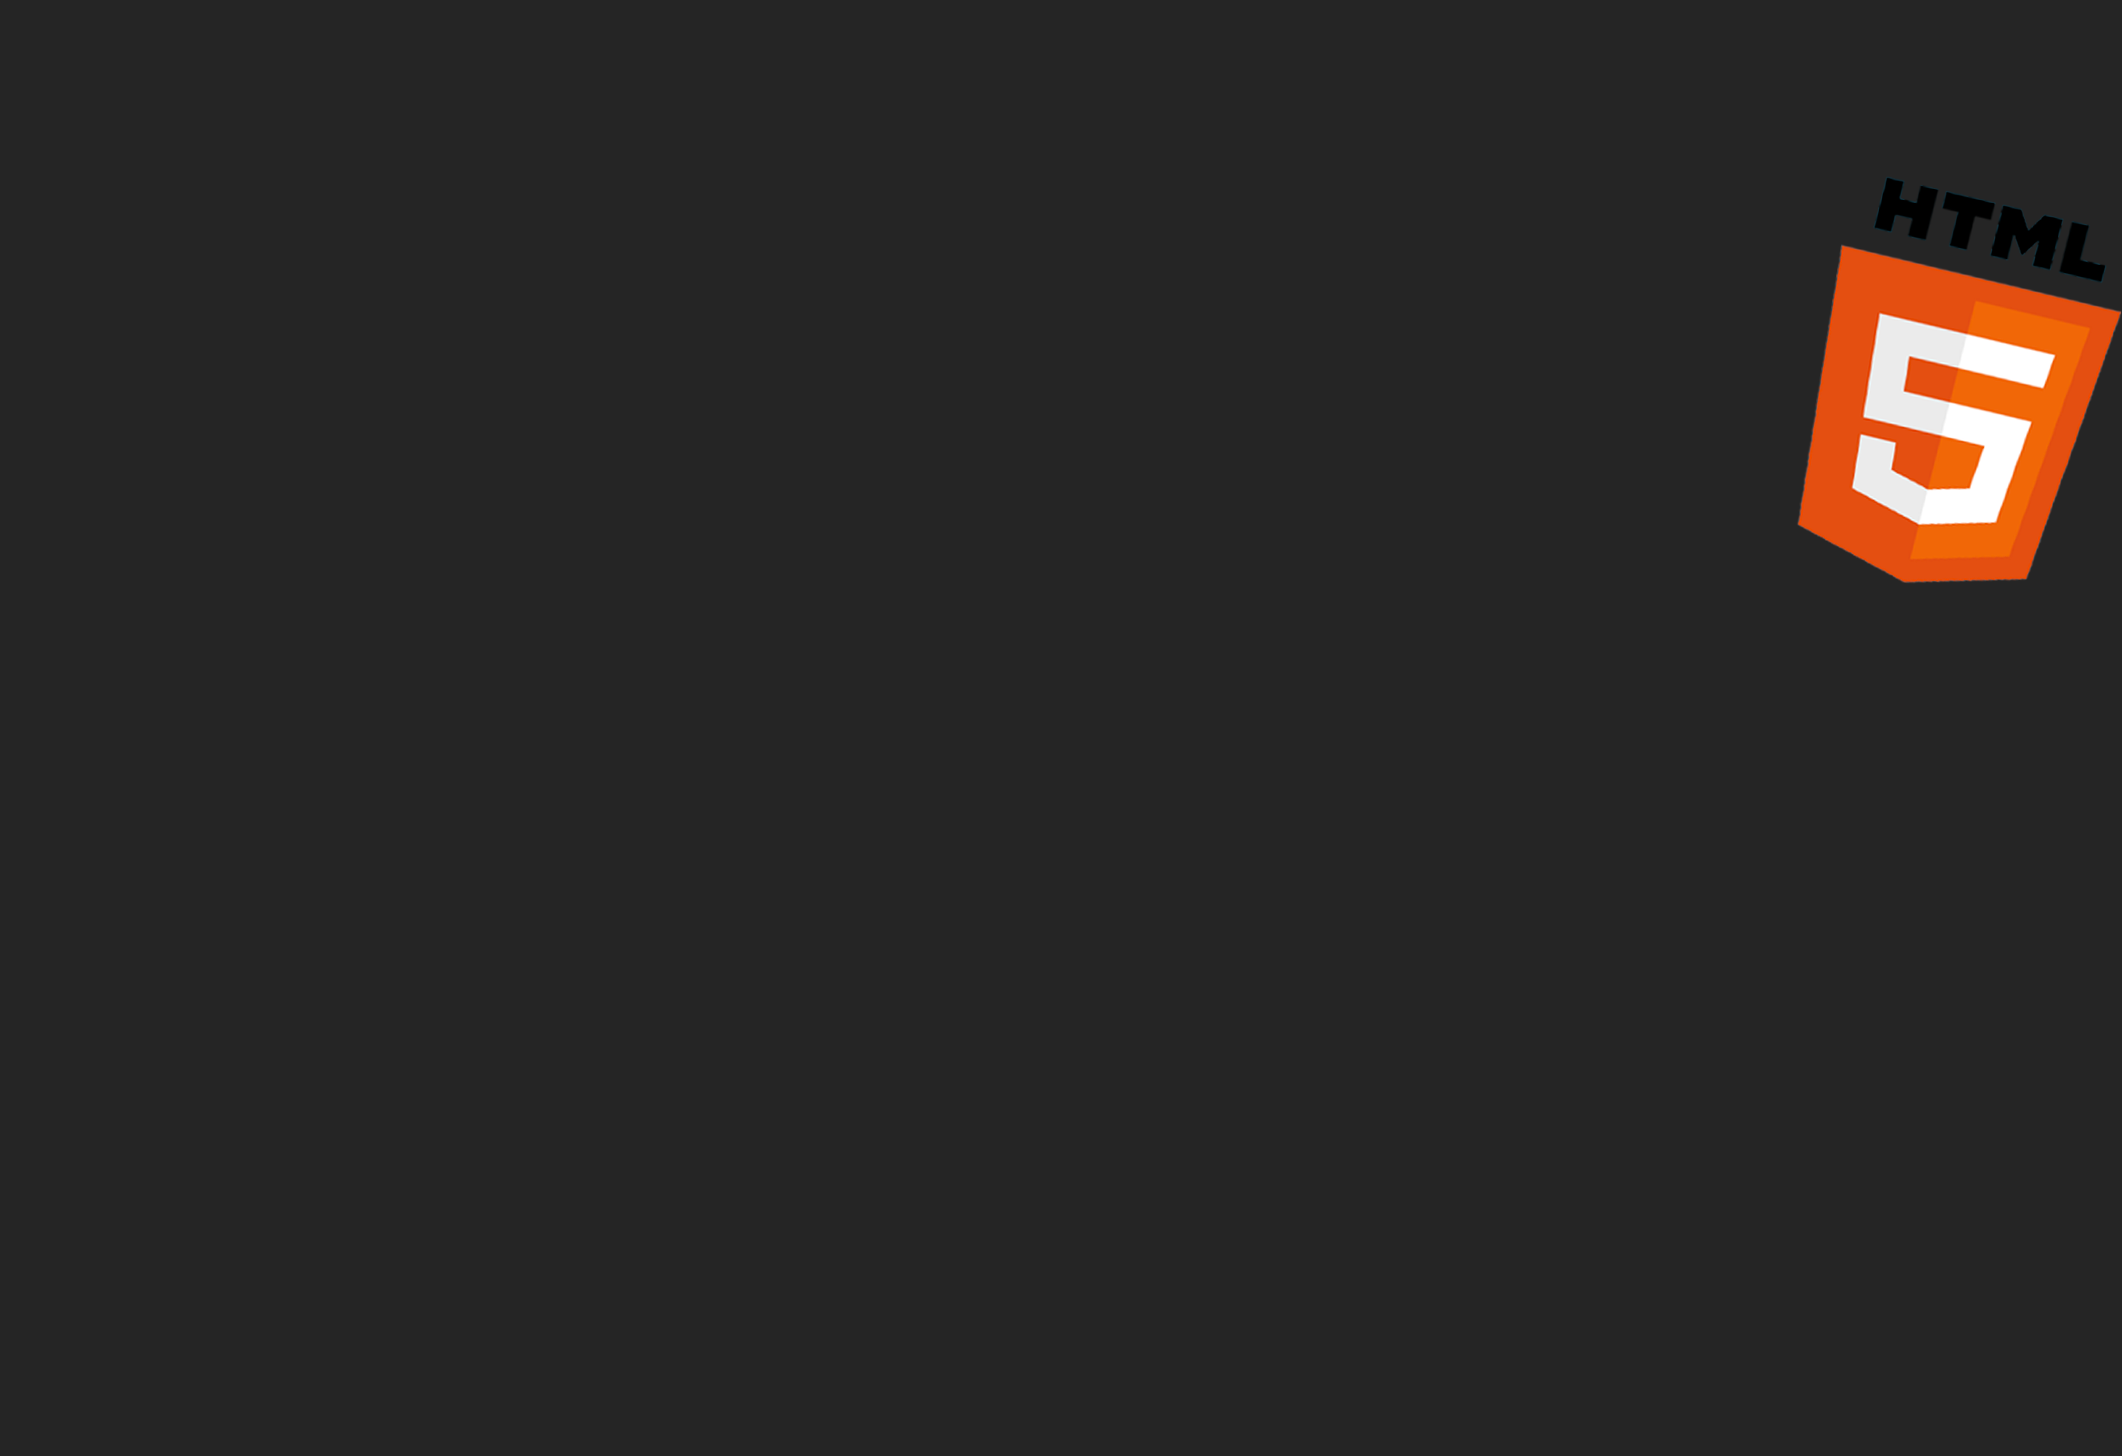
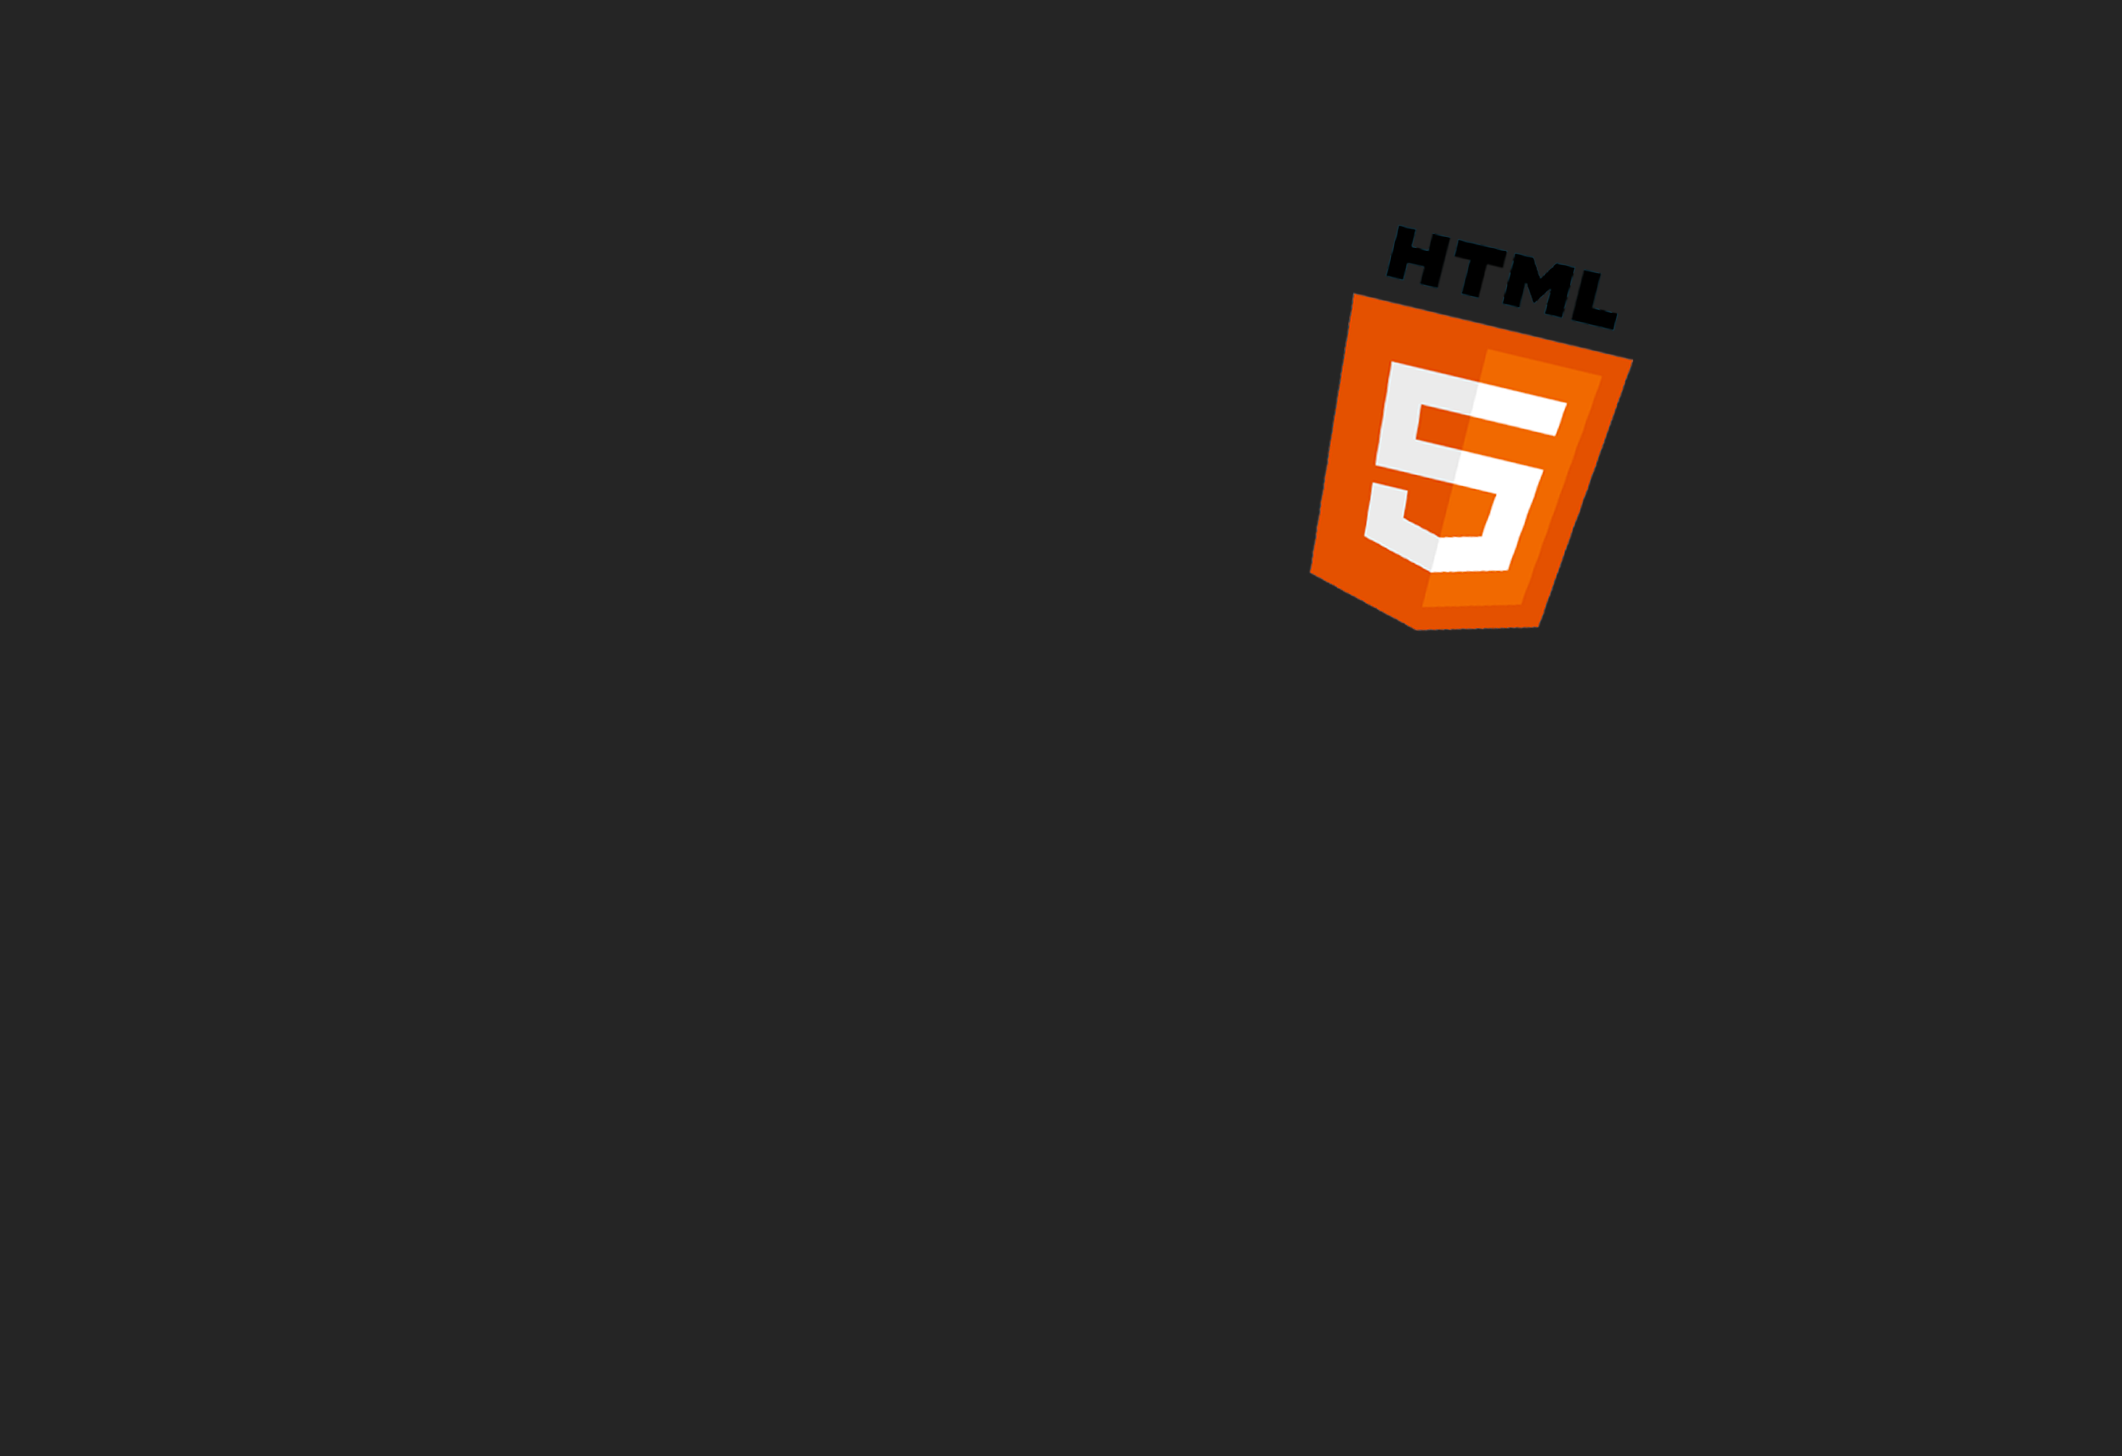
promos

Changed region(s): [[0.591, 0.1545, 0.7776, 0.4327], [0.8398, 0.1236, 1.0, 0.4018]]

diff --git a/index.html b/index.html
@@ -14,11 +14,10 @@ keywords: formations java jee, formations hadoop, formations java, formations it
             <div class="clearfix"></div>
             <ul class="social-bookmarks">   
                 <li class="twitter"><a href="https://twitter.com/XebiaTraining">twitter</a></li>
-                <li class="linkedin"><a href="http://www.linkedin.com/company/xebia-training">Linkedin</a></li>  
-                <li class="googleplus"><a href="https://twitter.com/XebiaTraining">Google +</a></li>
+                <li class="linkedin"><a href="http://www.linkedin.com/company/xebia-training">Linkedin</a></li>
+                <li class="viadeo"><a href="">Viadeo</a></li>  
                 <li class="vimeo"><a href="http://vimeo.com/xebia">Vimeo</a></li>   
-                <li class="rss"><a href="feed:http://blog.xebia.fr/feed/?dualfeed=2">RSS</a></li>
-                <li class="viadeo"><a href="">Viadeo</a></li> 
+                <li class="rss"><a href="feed:http://blog.xebia.fr/feed/?dualfeed=2">RSS</a></li> 
         </ul>
          </div>
          <!-- .span12 -->
@@ -107,7 +106,7 @@ new TWTR.Widget({
    </div>
    <!-- .container -->
 </section>
-<section id="bg-typo-next-training">
+<section id="bg-typo-next-training" class="stretch bg-fixed">
    <div class="container">
       <div class="row">
          <div class="span6 offset6 boxed color-typo-middle">
@@ -187,7 +186,7 @@ new TWTR.Widget({
 
     <td>7-8 février</td>
 
-    <td>1 400€ au lieu de 1 500€</td>
+    <td>1 500€</td>
 
     <td><a href=
     "http://training.xebia.fr/formation-scrummaster-certifiante-francais.html">

diff --git a/style.css b/style.css
@@ -530,7 +530,7 @@ section#title h1 {
   margin: 0;
 }
 .above-title-2 { 
-  height: 8px; /* Height of the navbar */
+  height: 30px; /* Height of the navbar */
 }
 
 .title-spacer {
@@ -560,7 +560,7 @@ section#title-csm-jeff h1 span {
   transition:opacity .7s ease-in-out;
 }
 #title-home  {
-    height: 500px;
+    height: 450px;
 }
 #title-post  {
     height: auto;
@@ -742,9 +742,11 @@ section#title-csm-jeff h1 span {
   -ms-transition:opacity .7s ease-in-out;
   transition:opacity .7s ease-in-out;
 }
+#title-tech-java {
+      height: 350px;
+}
 #title-tech-java h1 span {
-  display: inline-block;
-  padding: 28px; padding: 2.4rem;
+  display: inline-block; padding: 2.4rem;
   background: #202020;
   color: #fff;
   width: 450px;
@@ -754,6 +756,9 @@ section#title-csm-jeff h1 span {
   -webkit-transition:opacity .7s ease-in-out;
   -ms-transition:opacity .7s ease-in-out;
   transition:opacity .7s ease-in-out;
+}
+#title-mobilite {
+height: 310px;
 }
 #title-mobilite h1 span {
   display: inline-block;
@@ -767,6 +772,9 @@ section#title-csm-jeff h1 span {
   -webkit-transition:opacity .7s ease-in-out;
   -ms-transition:opacity .7s ease-in-out;
   transition:opacity .7s ease-in-out;
+}
+#title-web {
+ height: 310px;
 }
 #title-web h1 span {
   display: inline-block;

diff --git a/_layouts/main.html b/_layouts/main.html
@@ -294,11 +294,10 @@
         <div class="span4">
             <ul class="social-bookmarks">   
                 <li class="twitter"><a href="https://twitter.com/XebiaTraining">twitter</a></li>
-                <li class="linkedin"><a href="http://www.linkedin.com/company/xebia-training">Linkedin</a></li>  
-                <li class="googleplus"><a href="https://twitter.com/XebiaTraining">Google +</a></li>
+                <li class="linkedin"><a href="http://www.linkedin.com/company/xebia-training">Linkedin</a></li>
+                <li class="viadeo"><a href="">Viadeo</a></li>  
                 <li class="vimeo"><a href="http://vimeo.com/xebia">Vimeo</a></li>   
-                <li class="rss"><a href="feed:http://blog.xebia.fr/feed/?dualfeed=2">RSS</a></li>
-                <li class="viadeo"><a href="">Viadeo</a></li> 
+                <li class="rss"><a href="feed:http://blog.xebia.fr/feed/?dualfeed=2">RSS</a></li> 
         </ul>
         </div><!-- .span4 -->
       </div><!-- .row -->

diff --git a/formations-java-jee/formations-java-essentials.html b/formations-java-jee/formations-java-essentials.html
@@ -11,6 +11,13 @@ keywords: formations java, formations java jee, formation java essentials
          <div class="span12 title-spacer">
             <div class="clearfix"></div>
             <h1><span>Formations Java Essentials animées par José Paumard</span></h1>
+            <ul class="social-bookmarks">   
+                <li class="twitter"><a href="https://twitter.com/XebiaTraining">twitter</a></li>
+                <li class="linkedin"><a href="http://www.linkedin.com/company/xebia-training">Linkedin</a></li>
+                <li class="viadeo"><a href="">Viadeo</a></li>  
+                <li class="vimeo"><a href="http://vimeo.com/xebia">Vimeo</a></li>   
+                <li class="rss"><a href="feed:http://blog.xebia.fr/feed/?dualfeed=2">RSS</a></li> 
+        </ul>
             <div class="clearfix"></div>
          </div>
          <!-- .span12 -->

diff --git a/formations-java-jee/formations-java.html b/formations-java-jee/formations-java.html
@@ -11,6 +11,13 @@ keywords: formations java, formations java jee, formations java ee
          <div class="span12 title-spacer">
             <div class="clearfix"></div>
             <h1><span>Formations Java JEE</span></h1>
+             <ul class="social-bookmarks">   
+                <li class="twitter"><a href="https://twitter.com/XebiaTraining">twitter</a></li>
+                <li class="linkedin"><a href="http://www.linkedin.com/company/xebia-training">Linkedin</a></li>
+                <li class="viadeo"><a href="">Viadeo</a></li>  
+                <li class="vimeo"><a href="http://vimeo.com/xebia">Vimeo</a></li>   
+                <li class="rss"><a href="feed:http://blog.xebia.fr/feed/?dualfeed=2">RSS</a></li> 
+        </ul>
             <div class="clearfix"></div>
          </div>
          <!-- .span12 -->

diff --git a/formations-mobiles/formations-mobilite.html b/formations-mobiles/formations-mobilite.html
@@ -9,6 +9,13 @@ title: Formations mobilité
          <div class="span12 title-spacer">
             <div class="clearfix"></div>
             <h1><span>Formations Mobilite</span></h1>
+             <ul class="social-bookmarks">   
+                <li class="twitter"><a href="https://twitter.com/XebiaTraining">twitter</a></li>
+                <li class="linkedin"><a href="http://www.linkedin.com/company/xebia-training">Linkedin</a></li>
+                <li class="viadeo"><a href="">Viadeo</a></li>  
+                <li class="vimeo"><a href="http://vimeo.com/xebia">Vimeo</a></li>   
+                <li class="rss"><a href="feed:http://blog.xebia.fr/feed/?dualfeed=2">RSS</a></li> 
+        </ul>
             <div class="clearfix"></div>
          </div>
          <!-- .span12 -->

diff --git a/formations-web/formations-web.html b/formations-web/formations-web.html
@@ -9,6 +9,13 @@ title: Formations web
          <div class="span12 title-spacer">
             <div class="clearfix"></div>
             <h1><span>Formations Web</span></h1>
+            <ul class="social-bookmarks">   
+                <li class="twitter"><a href="https://twitter.com/XebiaTraining">twitter</a></li>
+                <li class="linkedin"><a href="http://www.linkedin.com/company/xebia-training">Linkedin</a></li>
+                <li class="viadeo"><a href="">Viadeo</a></li>  
+                <li class="vimeo"><a href="http://vimeo.com/xebia">Vimeo</a></li>   
+                <li class="rss"><a href="feed:http://blog.xebia.fr/feed/?dualfeed=2">RSS</a></li> 
+        </ul>
             <div class="clearfix"></div>
          </div>
          <!-- .span12 -->

diff --git a/apropos.html b/apropos.html
@@ -9,6 +9,13 @@ title: A propos
          <div class="span12 title-spacer">
             <div class="clearfix"></div>
             <h1><span>A propos de nous</span></h1>
+             <ul class="social-bookmarks">   
+                <li class="twitter"><a href="https://twitter.com/XebiaTraining">twitter</a></li>
+                <li class="linkedin"><a href="http://www.linkedin.com/company/xebia-training">Linkedin</a></li>
+                <li class="viadeo"><a href="">Viadeo</a></li>  
+                <li class="vimeo"><a href="http://vimeo.com/xebia">Vimeo</a></li>   
+                <li class="rss"><a href="feed:http://blog.xebia.fr/feed/?dualfeed=2">RSS</a></li> 
+        </ul>
             <div class="clearfix"></div>
          </div>
          <!-- .span12 -->

diff --git a/formations-java-jee/formation-java-performance-tuning.html b/formations-java-jee/formation-java-performance-tuning.html
@@ -11,6 +11,7 @@ keywords: formation java performance, formations java jee, formation java, forma
          <div class="span12 title-spacer">
             <div class="span5">
             <h1><span>Formation Java Performance Tuning animée par Kirk Pepperdine</span></h1>
+            
           </div>
             <div class="span6">
             <iframe src="http://player.vimeo.com/video/57885632" width="650" height="271" frameborder="0" webkitAllowFullScreen mozallowfullscreen allowFullScreen></iframe>

diff --git a/formations-mobiles/formation-android.html b/formations-mobiles/formation-android.html
@@ -11,6 +11,7 @@ keywords: formations mobilité, formation android
          <div class="span12 title-spacer">
             <div class="clearfix"></div>
             <h1><span>Formation Android animée par Pascal Ognibene</span></h1>
+            
             <div class="clearfix"></div>
          </div>
          <!-- .span12 -->

diff --git a/promos.html b/promos.html
@@ -47,7 +47,7 @@ title: Promos
 
               <td>7-8 février</td>
 
-              <td>1 400€ au lieu de 1 500€</td>
+              <td>1 500€</td>
 
               <td><a href=
               "http://training.xebia.fr/formation-scrummaster-certifiante-francais.html">
